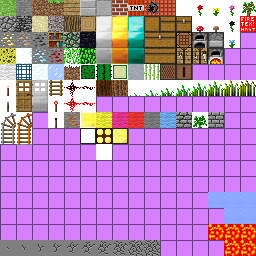
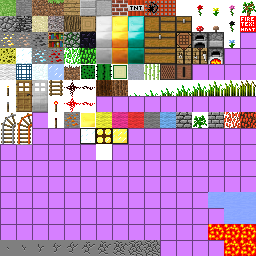
Added Autumn world type

Changed region(s): [[0.875, 0.4375, 1.0, 0.5]]

diff --git a/net/minecraft/src/BlockLeafPile.java b/net/minecraft/src/BlockLeafPile.java
@@ -1,0 +1,71 @@
+package net.minecraft.src;
+
+import java.util.Random;
+
+public class BlockLeafPile extends Block {
+	protected BlockLeafPile(int var1, int var2) {
+		super(var1, var2, Material.leaves);
+		this.setBlockBounds(0.0F, 0.0F, 0.0F, 1.0F, 2.0F / 16.0F, 1.0F);
+		this.setTickOnLoad(true);
+	}
+
+	public AxisAlignedBB getCollisionBoundingBoxFromPool(World var1, int var2, int var3, int var4) {
+		return null;
+	}
+
+	public boolean isOpaqueCube() {
+		return false;
+	}
+
+	public boolean renderAsNormalBlock() {
+		return false;
+	}
+
+	public boolean canPlaceBlockAt(World var1, int var2, int var3, int var4) {
+		return this.canThisPlantGrowOnThisBlockID(var1.getBlockId(var2, var3 - 1, var4));
+	}
+
+	protected boolean canThisPlantGrowOnThisBlockID(int var1) {
+		return var1 == Block.grass.blockID || var1 == Block.dirt.blockID || var1 == Block.tilledField.blockID;
+	}
+	
+	public boolean canBlockStay(World var1, int var2, int var3, int var4) {
+		return (var1.getBlockLightValue(var2, var3, var4) >= 8 || var1.canBlockSeeTheSky(var2, var3, var4)) && this.canThisPlantGrowOnThisBlockID(var1.getBlockId(var2, var3 - 1, var4));
+	}
+
+	public void onNeighborBlockChange(World var1, int var2, int var3, int var4, int var5) {
+		this.canSnowStay(var1, var2, var3, var4);
+	}
+
+	private boolean canSnowStay(World var1, int var2, int var3, int var4) {
+		if(!this.canPlaceBlockAt(var1, var2, var3, var4)) {
+			this.dropBlockAsItem(var1, var2, var3, var4, var1.getBlockMetadata(var2, var3, var4));
+			var1.setBlockWithNotify(var2, var3, var4, 0);
+			
+			return false;
+		} else {
+			return true;
+		}
+	}
+
+	public int idDropped(int var1, Random var2) {
+		return Item.snowball.shiftedIndex;
+	}
+
+	public int quantityDropped(Random var1) {
+		return 0;
+	}
+
+	public void updateTick(World var1, int var2, int var3, int var4, Random var5) {
+		if(var1.getSavedLightValue(EnumSkyBlock.Block, var2, var3, var4) > 11) {
+			this.dropBlockAsItem(var1, var2, var3, var4, var1.getBlockMetadata(var2, var3, var4));
+			var1.setBlockWithNotify(var2, var3, var4, 0);
+		}
+
+	}
+
+	public boolean shouldSideBeRendered(IBlockAccess var1, int var2, int var3, int var4, int var5) {
+		Material var6 = var1.getBlockMaterial(var2, var3, var4);
+		return var5 == 1 ? true : (var6 == this.material ? false : super.shouldSideBeRendered(var1, var2, var3, var4, var5));
+	}
+}

diff --git a/net/minecraft/src/GuiNewWorld.java b/net/minecraft/src/GuiNewWorld.java
@@ -8,7 +8,7 @@ public class GuiNewWorld extends GuiScreen {
 	protected String screenTitle = "Create world";
 	private boolean selected = false;
 	
-	private boolean snowWorld = false;
+	private int worldType;
 	private int worldID;
 
 	public GuiNewWorld(GuiScreen var1, int id) {
@@ -47,15 +47,18 @@ public class GuiNewWorld extends GuiScreen {
 
 	protected void actionPerformed(GuiButton var1) {
 		if(var1.id == 0) {
-			this.snowWorld = !this.snowWorld;
-			if(this.snowWorld) 
-				var1.displayString = "World Type: Snow";
+			this.worldType++;
+			if(this.worldType > 2) this.worldType -= 2;
+			if(this.worldType == 1) 
+				var1.displayString = "World Type: Winter";
+			else if(this.worldType == 2)
+				var1.displayString = "World Type: Autumn";
 			else
 				var1.displayString = "World Type: Normal";
 		}
 		
 		if(var1.id == 1) {
-			this.selectWorld(this.snowWorld);
+			this.selectWorld(this.worldType == 1, this.worldType == 2);
 		}
 		
 		if(var1.id == 6) {
@@ -63,12 +66,12 @@ public class GuiNewWorld extends GuiScreen {
 		}
 	}
 
-	public void selectWorld(boolean snowy) {
+	public void selectWorld(boolean snowy, boolean autumn) {
 		this.mc.displayGuiScreen((GuiScreen)null);
 		if(!this.selected) {
 			this.selected = true;
 			this.mc.playerController = new PlayerControllerSP(this.mc);
-			this.mc.startWorld("World" + this.worldID, snowy);
+			this.mc.startWorld("World" + this.worldID, snowy, autumn);
 			this.mc.displayGuiScreen((GuiScreen)null);
 		}
 	}

diff --git a/net/minecraft/src/World.java b/net/minecraft/src/World.java
@@ -23,6 +23,7 @@ public class World implements IBlockAccess {
 	public List loadedTileEntityList;
 	public long worldTime;
 	public boolean snowCovered;
+	public boolean isAutumn;
 	private long skyColor;
 	private long fogColor;
 	private long cloudColor;
@@ -195,6 +196,7 @@ public class World implements IBlockAccess {
 				this.worldTime = var7.getLong("Time");
 				this.sizeOnDisk = var7.getLong("SizeOnDisk");
 				this.snowCovered = var7.getBoolean("SnowCovered");
+				this.isAutumn = var7.getBoolean("IsAutumn");
 				if(var7.hasKey("Player")) {
 					this.nbtCompoundPlayer = var7.getCompoundTag("Player");
 				}
@@ -295,6 +297,7 @@ public class World implements IBlockAccess {
 		var1.setLong("Time", this.worldTime);
 		var1.setLong("SizeOnDisk", this.sizeOnDisk);
 		var1.setBoolean("SnowCovered", this.snowCovered);
+		var1.setBoolean("IsAutumn", this.isAutumn);
 		var1.setLong("LastPlayed", System.currentTimeMillis());
 		EntityPlayer var2 = null;
 		if(this.playerEntities.size() > 0) {

diff --git a/net/minecraft/src/WorldGenLeafPiles.java b/net/minecraft/src/WorldGenLeafPiles.java
@@ -1,0 +1,24 @@
+package net.minecraft.src;
+
+import java.util.Random;
+
+public class WorldGenLeafPiles extends WorldGenerator {
+	private int plantBlockId;
+
+	public WorldGenLeafPiles(int var1) {
+		this.plantBlockId = var1;
+	}
+
+	public boolean generate(World var1, Random var2, int var3, int var4, int var5) {
+		for(int var6 = 0; var6 < 128; ++var6) {
+			int var7 = var3 + var2.nextInt(8) - var2.nextInt(8);
+			int var8 = var4 + var2.nextInt(4) - var2.nextInt(4);
+			int var9 = var5 + var2.nextInt(8) - var2.nextInt(8);
+			if(var1.getBlockId(var7, var8, var9) == 0 && ((BlockLeafPile)Block.blocksList[this.plantBlockId]).canBlockStay(var1, var7, var8, var9)) {
+				var1.setBlock(var7, var8, var9, this.plantBlockId);
+			}
+		}
+
+		return true;
+	}
+}

diff --git a/net/minecraft/src/BlockLeaves.java b/net/minecraft/src/BlockLeaves.java
@@ -17,7 +17,7 @@ public class BlockLeaves extends BlockLeavesBase {
 		this.setTickOnLoad(true);
 		this.playerPlaced = player;
 	}
-
+	
 	public void onNeighborBlockChange(World world, int x, int y, int z, int flag) {
 		this.decayCounter = 0;
 		this.updateCurrentLeaves(world, x, y, z);
@@ -109,7 +109,7 @@ public class BlockLeaves extends BlockLeavesBase {
 			return i5;
 		}
 	}
-
+	
 	public void updateTick(World world, int x, int y, int z, Random random) {
 		int i6 = world.getBlockMetadata(x, y, z);
 		if(i6 == 0) {
@@ -155,6 +155,7 @@ public class BlockLeaves extends BlockLeavesBase {
 
 	public void setGraphicsLevel(boolean var1) {
 		this.graphicsLevel = var1;
+		
 		this.blockIndexInTexture = this.leafTexIndex + (var1 ? 0 : 1);
 	}
 	

diff --git a/net/minecraft/src/Block.java b/net/minecraft/src/Block.java
@@ -119,6 +119,7 @@ public class Block {
 	public static final Block brickSmooth = (new Block(97, 125, Material.rock)).setHardness(2.0F).setResistance(10.0F).setStepSound(soundStoneFootstep);
 	public static final Block stairCompactSmoothBrick = new BlockStairs(98, brickSmooth);
 	public static final Block blockCopper = (new Block(99, 7+3*16, Material.iron)).setHardness(5.0F).setResistance(10.0F).setStepSound(soundMetalFootstep);
+	public static final Block leafPile = (new BlockLeafPile(100, 14+7*16)).setHardness(0.1F).setStepSound(soundGrassFootstep);
 	public int blockIndexInTexture;
 	public final int blockID;
 	protected float hardness;

diff --git a/net/minecraft/src/ChunkProviderGenerate.java b/net/minecraft/src/ChunkProviderGenerate.java
@@ -413,6 +413,13 @@ public class ChunkProviderGenerate implements IChunkProvider {
 			(new WorldGenFlowers(Block.plantRed.blockID)).generate(this.worldObj, this.rand, var14, var15, var16);
 		}
 		
+//		if(this.worldObj.isAutumn &&  this.rand.nextInt(1) == 0) {
+//			var14 = var4 + this.rand.nextInt(16) + 8;
+//			var15 = this.rand.nextInt(64)+64;
+//			var16 = var5 + this.rand.nextInt(16) + 8;
+//			(new WorldGenLeafPiles(Block.leafPile.blockID)).generate(this.worldObj, this.rand, var14, var15, var16);
+//		}
+		
 		if(this.rand.nextInt(4) == 0) {
 			var14 = var4 + this.rand.nextInt(16) + 8;
 			var15 = this.rand.nextInt(128);

diff --git a/net/minecraft/client/Minecraft.java b/net/minecraft/client/Minecraft.java
@@ -986,12 +986,13 @@ public abstract class Minecraft implements Runnable {
 		return this.theWorld != null && this.theWorld.multiplayerWorld;
 	}
 
-	public void startWorld(String var1, boolean snowy) {
+	public void startWorld(String var1, boolean snowy, boolean autumn) {
 		this.changeWorld1((World)null);
 		System.gc();
 		World var2 = new World(new File(getMinecraftDir(), "saves"), var1);
 		if(var2.isNewWorld) {
 			var2.snowCovered = snowy;
+			var2.isAutumn = autumn;
 			this.changeWorld(var2, "Generating level");
 		} else {
 			this.changeWorld(var2, "Loading level");

diff --git a/net/minecraft/src/WorldRenderer.java b/net/minecraft/src/WorldRenderer.java
@@ -131,6 +131,15 @@ public class WorldRenderer {
 								}
 
 								Block var24 = Block.blocksList[var18];
+								if(var24.blockID == Block.leaves.blockID || var24.blockID == Block.leavesPlr.blockID) {
+									if(this.worldObj.isAutumn) {
+										if(var24.isOpaqueCube())
+											var24.blockIndexInTexture = 15 + 7*16;
+										else
+											var24.blockIndexInTexture = 14 + 7*16;
+									}
+								}
+								
 								int var20 = var24.getRenderBlockPass();
 								if(var20 != var11) {
 									var12 = true;

diff --git a/net/minecraft/src/WorldGenTrees.java b/net/minecraft/src/WorldGenTrees.java
@@ -69,6 +69,9 @@ public class WorldGenTrees extends WorldGenerator {
 						if(var10 == 0 || var10 == Block.leaves.blockID) {
 							var1.setBlock(var3, var4 + var16, var5, Block.wood.blockID);
 						}
+						if(var16 == 0) {
+							(new WorldGenLeafPiles(Block.leafPile.blockID)).generate(var1, var2, var3, var4, var5);
+						}
 						height = var16;
 					}
 					

diff --git a/net/minecraft/src/GuiSelectWorld.java b/net/minecraft/src/GuiSelectWorld.java
@@ -72,7 +72,7 @@ public class GuiSelectWorld extends GuiScreen {
 		if(!this.selected) {
 			this.selected = true;
 			this.mc.playerController = new PlayerControllerSP(this.mc);
-			this.mc.startWorld("World" + var1, false);
+			this.mc.startWorld("World" + var1, false, false);
 			this.mc.displayGuiScreen((GuiScreen)null);
 		}
 	}

diff --git a/net/minecraft/src/GuiMainMenu.java b/net/minecraft/src/GuiMainMenu.java
@@ -140,7 +140,7 @@ public class GuiMainMenu extends GuiScreen {
 			if(this.bgCol <= 0) {
 				this.fadeState = 2;
 				this.bgIndex++;
-				if(this.bgIndex > 5) this.bgIndex -= 5;
+				if(this.bgIndex > 6) this.bgIndex -= 6;
 			}
 			
 			return;
